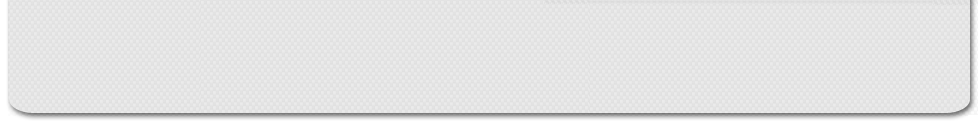
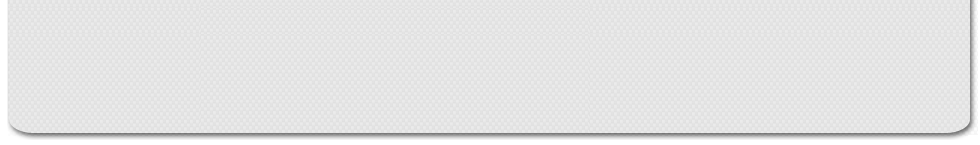
update text before and after instructions example slider

Changed region(s): [[0.0, 0.84, 1.0, 0.96]]

diff --git a/index.html b/index.html
@@ -78,8 +78,9 @@
             <div class="party_page">
                 <div class="main_top">
                     <div class="instructions">
-                        <div class="caption">לכל אחד מהנושאים החשובים לך, סמן את תמיכתך בו ואת חשיבותו עבורך באמצעות בחירת ערך.</div>
+                        <div class="caption">לכל אחד מהנושאים החשובים לך, סמן את תמיכתך בו ואת חשיבותו עבורך באמצעות בחירת ערך. לפי הסרגל הבא:</div>
                         <div class="instructions_bar"></div>
+                        <div class="remark">לאחר בחירת הערכים יוצגו בפניך המועמדים במפלגה לפי מידת התאמתם להשקפותיך</div>
                     </div>
                     <div class="recommendations_container">
                         <div class="caption">הצג לי המלצות של קבוצת מתפקדים הבאה:</div>

diff --git a/mitpakdim.css b/mitpakdim.css
@@ -130,7 +130,7 @@ body {
 }
 .main_top {
     background-image : url("./static/instructions_back.png");
-    height : 125px;
+    height : 145px;
     width : 980px;
     margin-right : -10px;
 }
@@ -147,10 +147,18 @@ body {
     margin : 10px 12px 0 0;
     width : 400px;
 }
+.instructions .remark {
+    color : #00507F;
+    font-size : 12px;
+    font-weight : 400;
+    margin : 3px 12px 0 0;
+    width : 420px;
+}
 .instructions_bar {
     background-image : url("./static/instructions.png");
     height : 57px;
     width : 426px;
+    margin-top : 7px;
 }
 .agendas_container {
     display : inline-block;
@@ -511,7 +519,7 @@ body {
     white-space : normal;
 }
 .recommendation_item {
-    padding : 5px 10px;
+    padding : 17px 10px 5px 10px;
     cursor : pointer;
 }
 .recommendation_item img {
